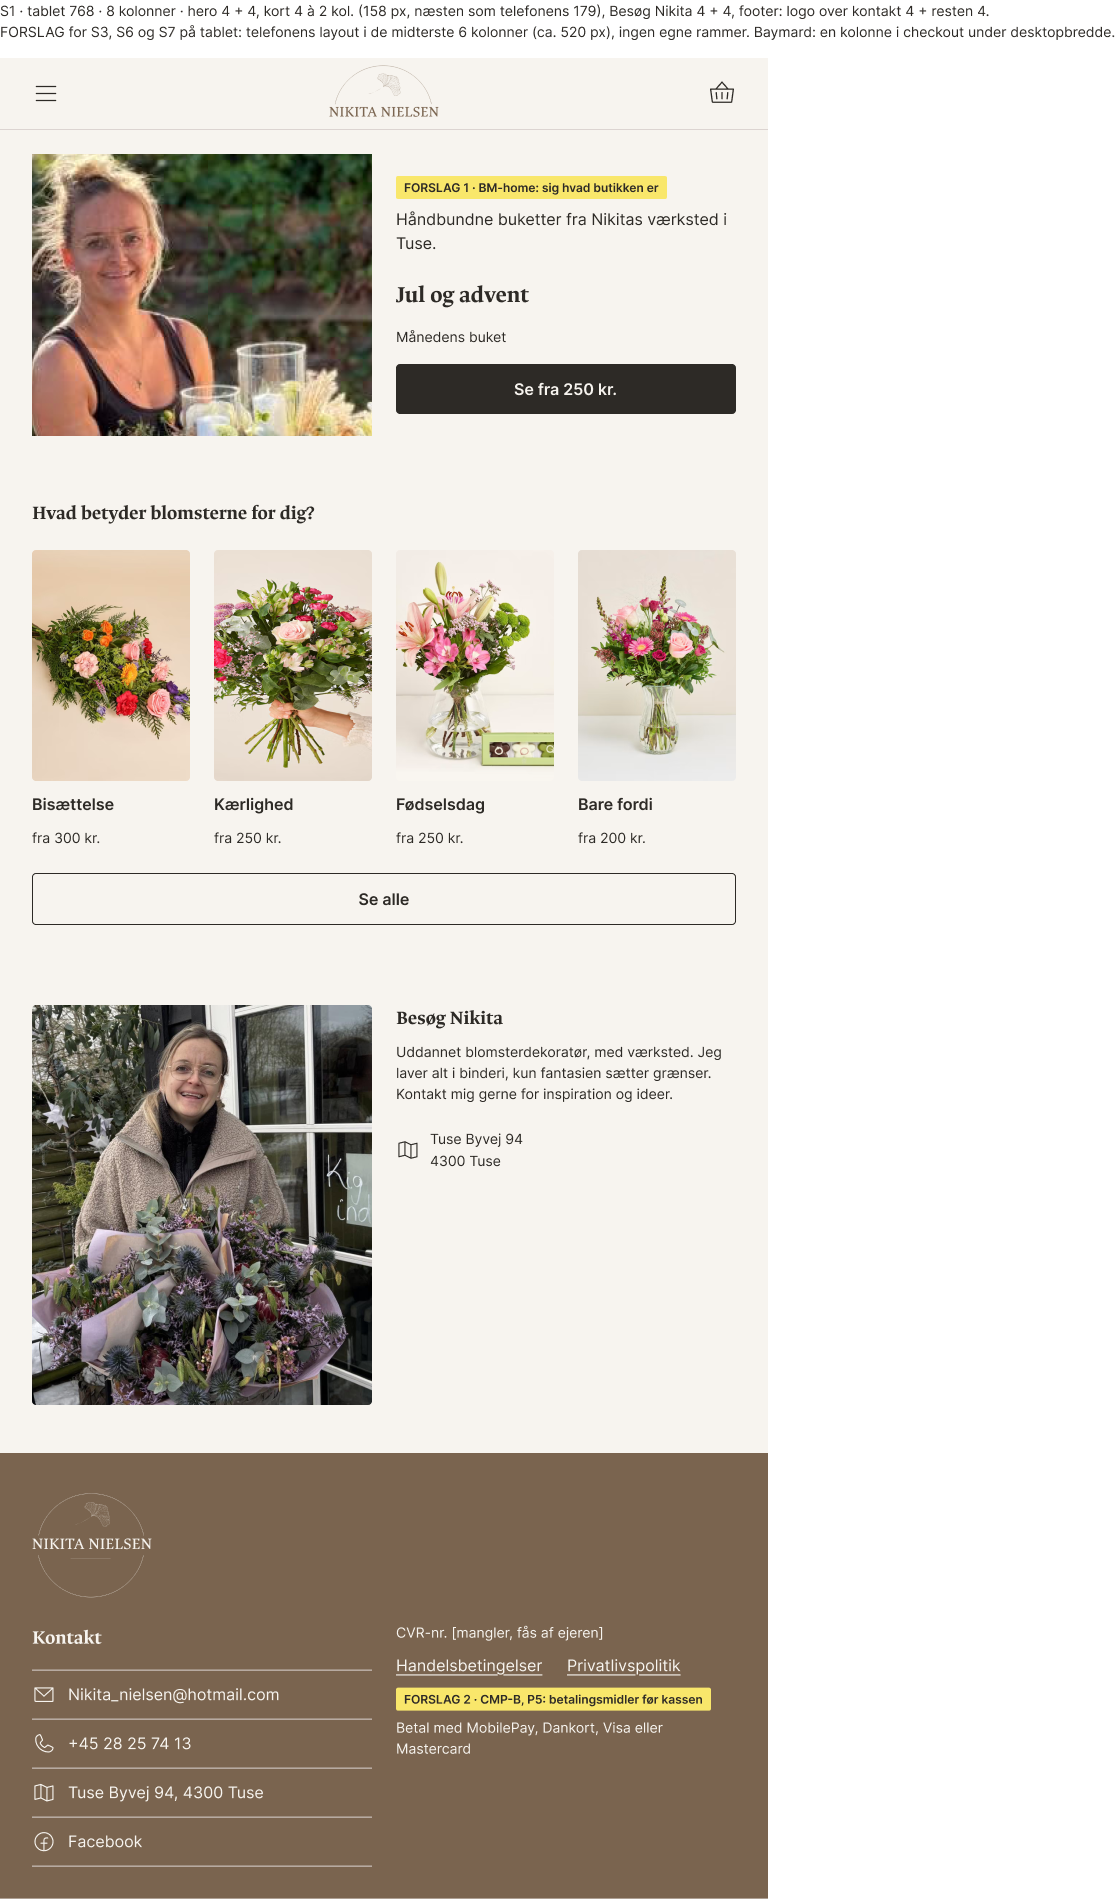
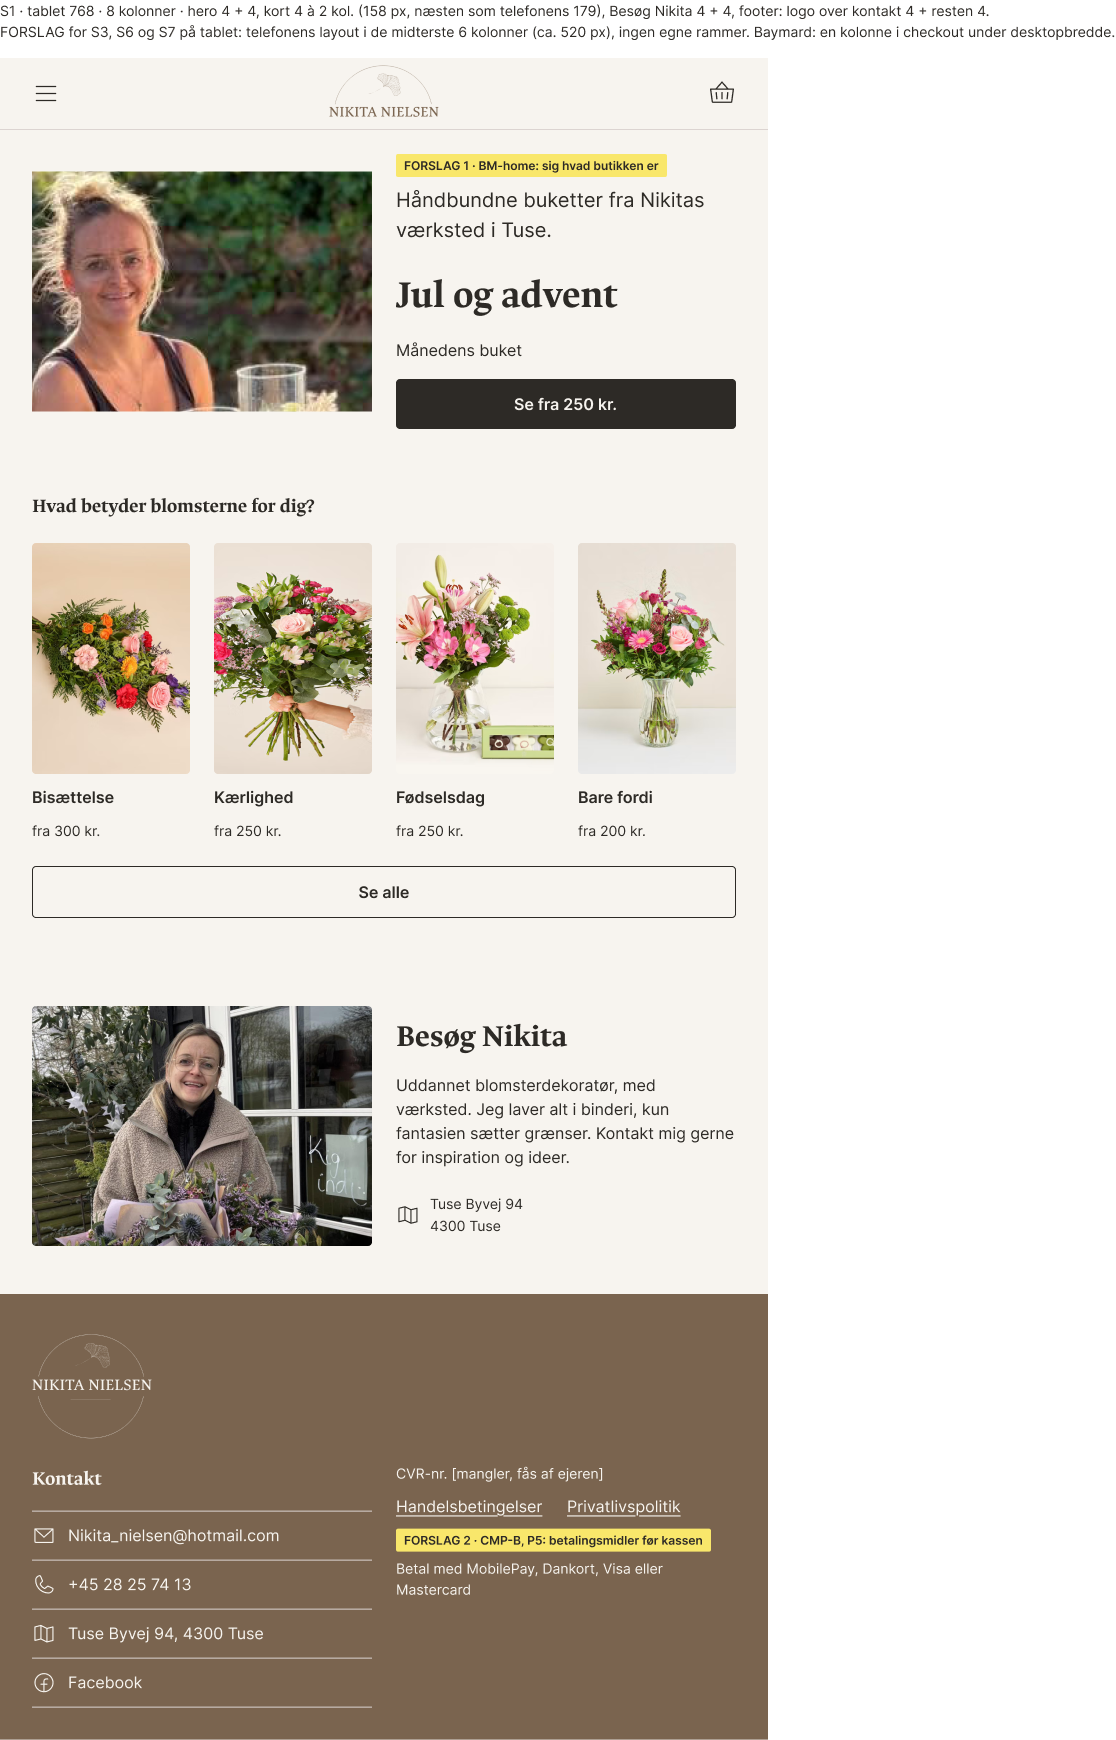
Revise tablet and desktop frames after Felix's review (DD-29)

Changed region(s): [[0.0, 0.0, 1.0, 0.5276], [0.0, 0.5276, 0.7007, 0.9931], [0.3351, 0.8379, 0.6398, 0.931]]

diff --git a/docs/design-decisions.md b/docs/design-decisions.md
@@ -200,3 +200,9 @@ Follows from it on the phone: the card gap from the Figma frame (10 px) became 1
 Rejected: 16 desktop columns so that column counts are divisible by 8 too (fiddly, unusual); a narrower 936 px desktop; an extra step for small laptops.
 Next: tablet and desktop frames for S1, S3, S4 and S6/S7 in Figma, each element citing its pattern, for Felix to review before they are built.
 Test: no horizontal scroll and content edges on the grid at 390, 768, 1280 and 1600 px (checked 25 Nov); in the usability test, one session on a laptop.
+
+### DD-29 Tablet and desktop layouts: side by side from 600 px
+Date: 2026-11-26 · Principles: P1 (mobile first, not mobile only), P2 and P3 (price and fee visible before choosing), DD-28 · Evidence grade: B (Baymard product page, cart and checkout layouts; Shopify checkout)
+Decision: From tablet width the long phone column splits in two. Occasion page: photo 7 columns, choices 5 (tablet 4 + 4), and the photo stays in place while the choices scroll past (Felix). Front page: photo 7 + recommendation 5 (tablet 4 + 4) with a 3:2 photo, bouquet name at the front-page heading size (40 px) and intro line 20 px; the top four occasions in one row; "Besøg Nikita" as a landscape photo across 6 columns beside centred text, heading 32 px; footer C in three columns (tablet: logo above two). Cart: items and delivery 7, totals and button 5. Checkout: form 7 with the pay button at its end, "Din ordre" 5 on the right, following the scroll (Felix). On tablet, the category page, cart and checkout keep the phone layout in the middle 6 columns. Felix's calls; he cared about the feel more than per-screen frames ("we just needed to nail the feel").
+Rejected: the first frames (26 Nov), where the hero's 6:5 photo and the tall portrait in "Besøg Nikita" left awkward empty space beside short text (Felix: slightly in the hero, very in the about section); images kept as `docs/design/hifi/working-v3/grid/*-rejected-too-much-space.png`. Also rejected: a photo that scrolls away on the occasion page (the button would sit below a laptop screen's fold with the photo gone).
+Test: in the usability test, one session on a laptop: does the person find "Læg i kurven" without scrolling back up, and does anything read as empty?

diff --git a/openspec/changes/storefront/tasks.md b/openspec/changes/storefront/tasks.md
@@ -35,7 +35,7 @@
 ## G. Layout grid for phone, tablet and desktop (DD-28, 25 Nov)
 
 - [x] G.1 Add the spacing scale and the layout grid (4 / 8 / 12 columns, 1128 px max) to the brand tokens and the frontend copy; extend the drift test to the tablet and desktop values; move off-grid spacings onto the steps; verify content and header icons sit on the grid edge at 390, 768, 1280 and 1600 px with no horizontal scroll — *25 Nov: content edges 16 / 32 / 76 / 236 px, icons aligned, scroll width equal to the window at all four; "before" images `docs/design/implemented/2026-11-25-grid-before-*.png`*
-- [ ] G.2 Draw tablet and desktop frames for S1, S3, S4 and S6/S7 in Figma on the 12-column grid, each element citing its pattern; verify Felix has reviewed them — *25 Nov: drawn in section "V0.3 · Tablet og desktop (DD-28, forslag)" from clones of the phone parts (no new elements); images in `docs/design/hifi/working-v3/grid/`. Waiting for Felix's review*
+- [x] G.2 Draw tablet and desktop frames for S1, S3, S4 and S6/S7 in Figma on the 12-column grid, each element citing its pattern; verify Felix has reviewed them — *25 Nov: drawn in section "V0.3 · Tablet og desktop (DD-28, forslag)" from clones of the phone parts (no new elements); images in `docs/design/hifi/working-v3/grid/`. 26 Nov: Felix found too much empty space in the front page hero and especially "Besøg Nikita"; revised (3:2 hero photo, brand heading sizes, landscape about photo, text centred); first frames kept as rejected images. Felix chose a sticky photo on the occasion page and a sticky "Din ordre" in checkout, and no separate frames for S3 or tablet S3/S6/S7 (DD-29)*
 - [ ] G.3 Build the reviewed tablet and desktop layouts; verify screenshots at 768 and 1280 px against the frames
 
 ## 5. Cart

diff --git a/docs/process/2026-11-19-storefront.md b/docs/process/2026-11-19-storefront.md
@@ -66,3 +66,4 @@ Felix's education is design-oriented, so every key layout choice is his (CLAUDE.
     - S6 cart: items and delivery 7, totals and button 5 (Baymard cart: totals and the checkout button together, high on the page). S7 checkout: form 7, "Din ordre" 5 on the right, pay button at the end of the form (Baymard checkout and Shopify's checkout, which Danish shoppers know); "Din ordre" following the scroll is marked as a proposal.
     - Not drawn: S3 (same card grid as S1) and S3, S6, S7 on tablet (proposal: phone layout in the middle 6 columns, Baymard: one column in checkout below desktop width).
     - *Slips while drawing:* cloned screens shrank to 100 px inside their hugging parent until their width was fixed; a cloned text with fixed width cut off the summary line and the hero line on tablet; the cloned footer kept its phone height and was clipped. All found in the frame screenshots and fixed before export.
+  - **Felix's review (26 Nov, DD-29).** The arrangements did not pass: the whitespace was awkward, slightly in the hero and badly in "Besøg Nikita", where a tall portrait sat beside three lines of text. Claude made one revision rather than variants, since Felix named the problem and the fix could come from the brand guide: a 3:2 hero photo so it is no taller than the text needs, the bouquet name at the front-page heading size (40 px) and the intro at 20 px, and "Besøg Nikita" as a landscape photo across 6 columns with the text centred beside it (heading 32 px, body 16 px). Same on tablet. The first frames are kept as rejected images. Felix also chose a sticky photo on the occasion page, a sticky "Din ordre" in checkout, and no separate frames for the screens that only repeat a pattern ("we just needed to nail the feel").

diff --git a/docs/design/hifi/working-v3/README.md b/docs/design/hifi/working-v3/README.md
@@ -7,4 +7,4 @@ Changes made after v2, before the owner's first test. Frozen as v3 with its chan
 | All screens | Descriptions, hints and meta text in Ink | In Sand (`--color-text-muted`), except on Linen panels | Owner's wish for simple, via Felix (DD-24) |
 | Photo areas | Plain Linen with "Foto kommer" | Light skeleton wave while loading or missing, off with reduced motion | Felix (DD-26) |
 | Navbar | Scrolls away with the page | Sticky at the top; jump links land below it | Felix (DD-27) |
-| Tablet and desktop | Phone frames only (402 px) | Proposal, not yet reviewed: tablet (768, 8 columns) and desktop (1280, 12 columns) frames for S1, S4, S6, S7 in the Figma section "V0.3 · Tablet og desktop (DD-28, forslag)"; S3 follows S1's card grid; S3, S6, S7 on tablet keep the phone layout in the middle 6 columns. Images in `grid/` | Felix (DD-28), task G.2 |
+| Tablet and desktop | Phone frames only (402 px) | Reviewed 26 Nov, revised for less empty space (DD-29): tablet (768, 8 columns) and desktop (1280, 12 columns) frames for S1, S4, S6, S7 in the Figma section "V0.3 · Tablet og desktop (DD-28, forslag)"; S3 follows S1's card grid; S3, S6, S7 on tablet keep the phone layout in the middle 6 columns. Images in `grid/` | Felix (DD-28), task G.2 |
